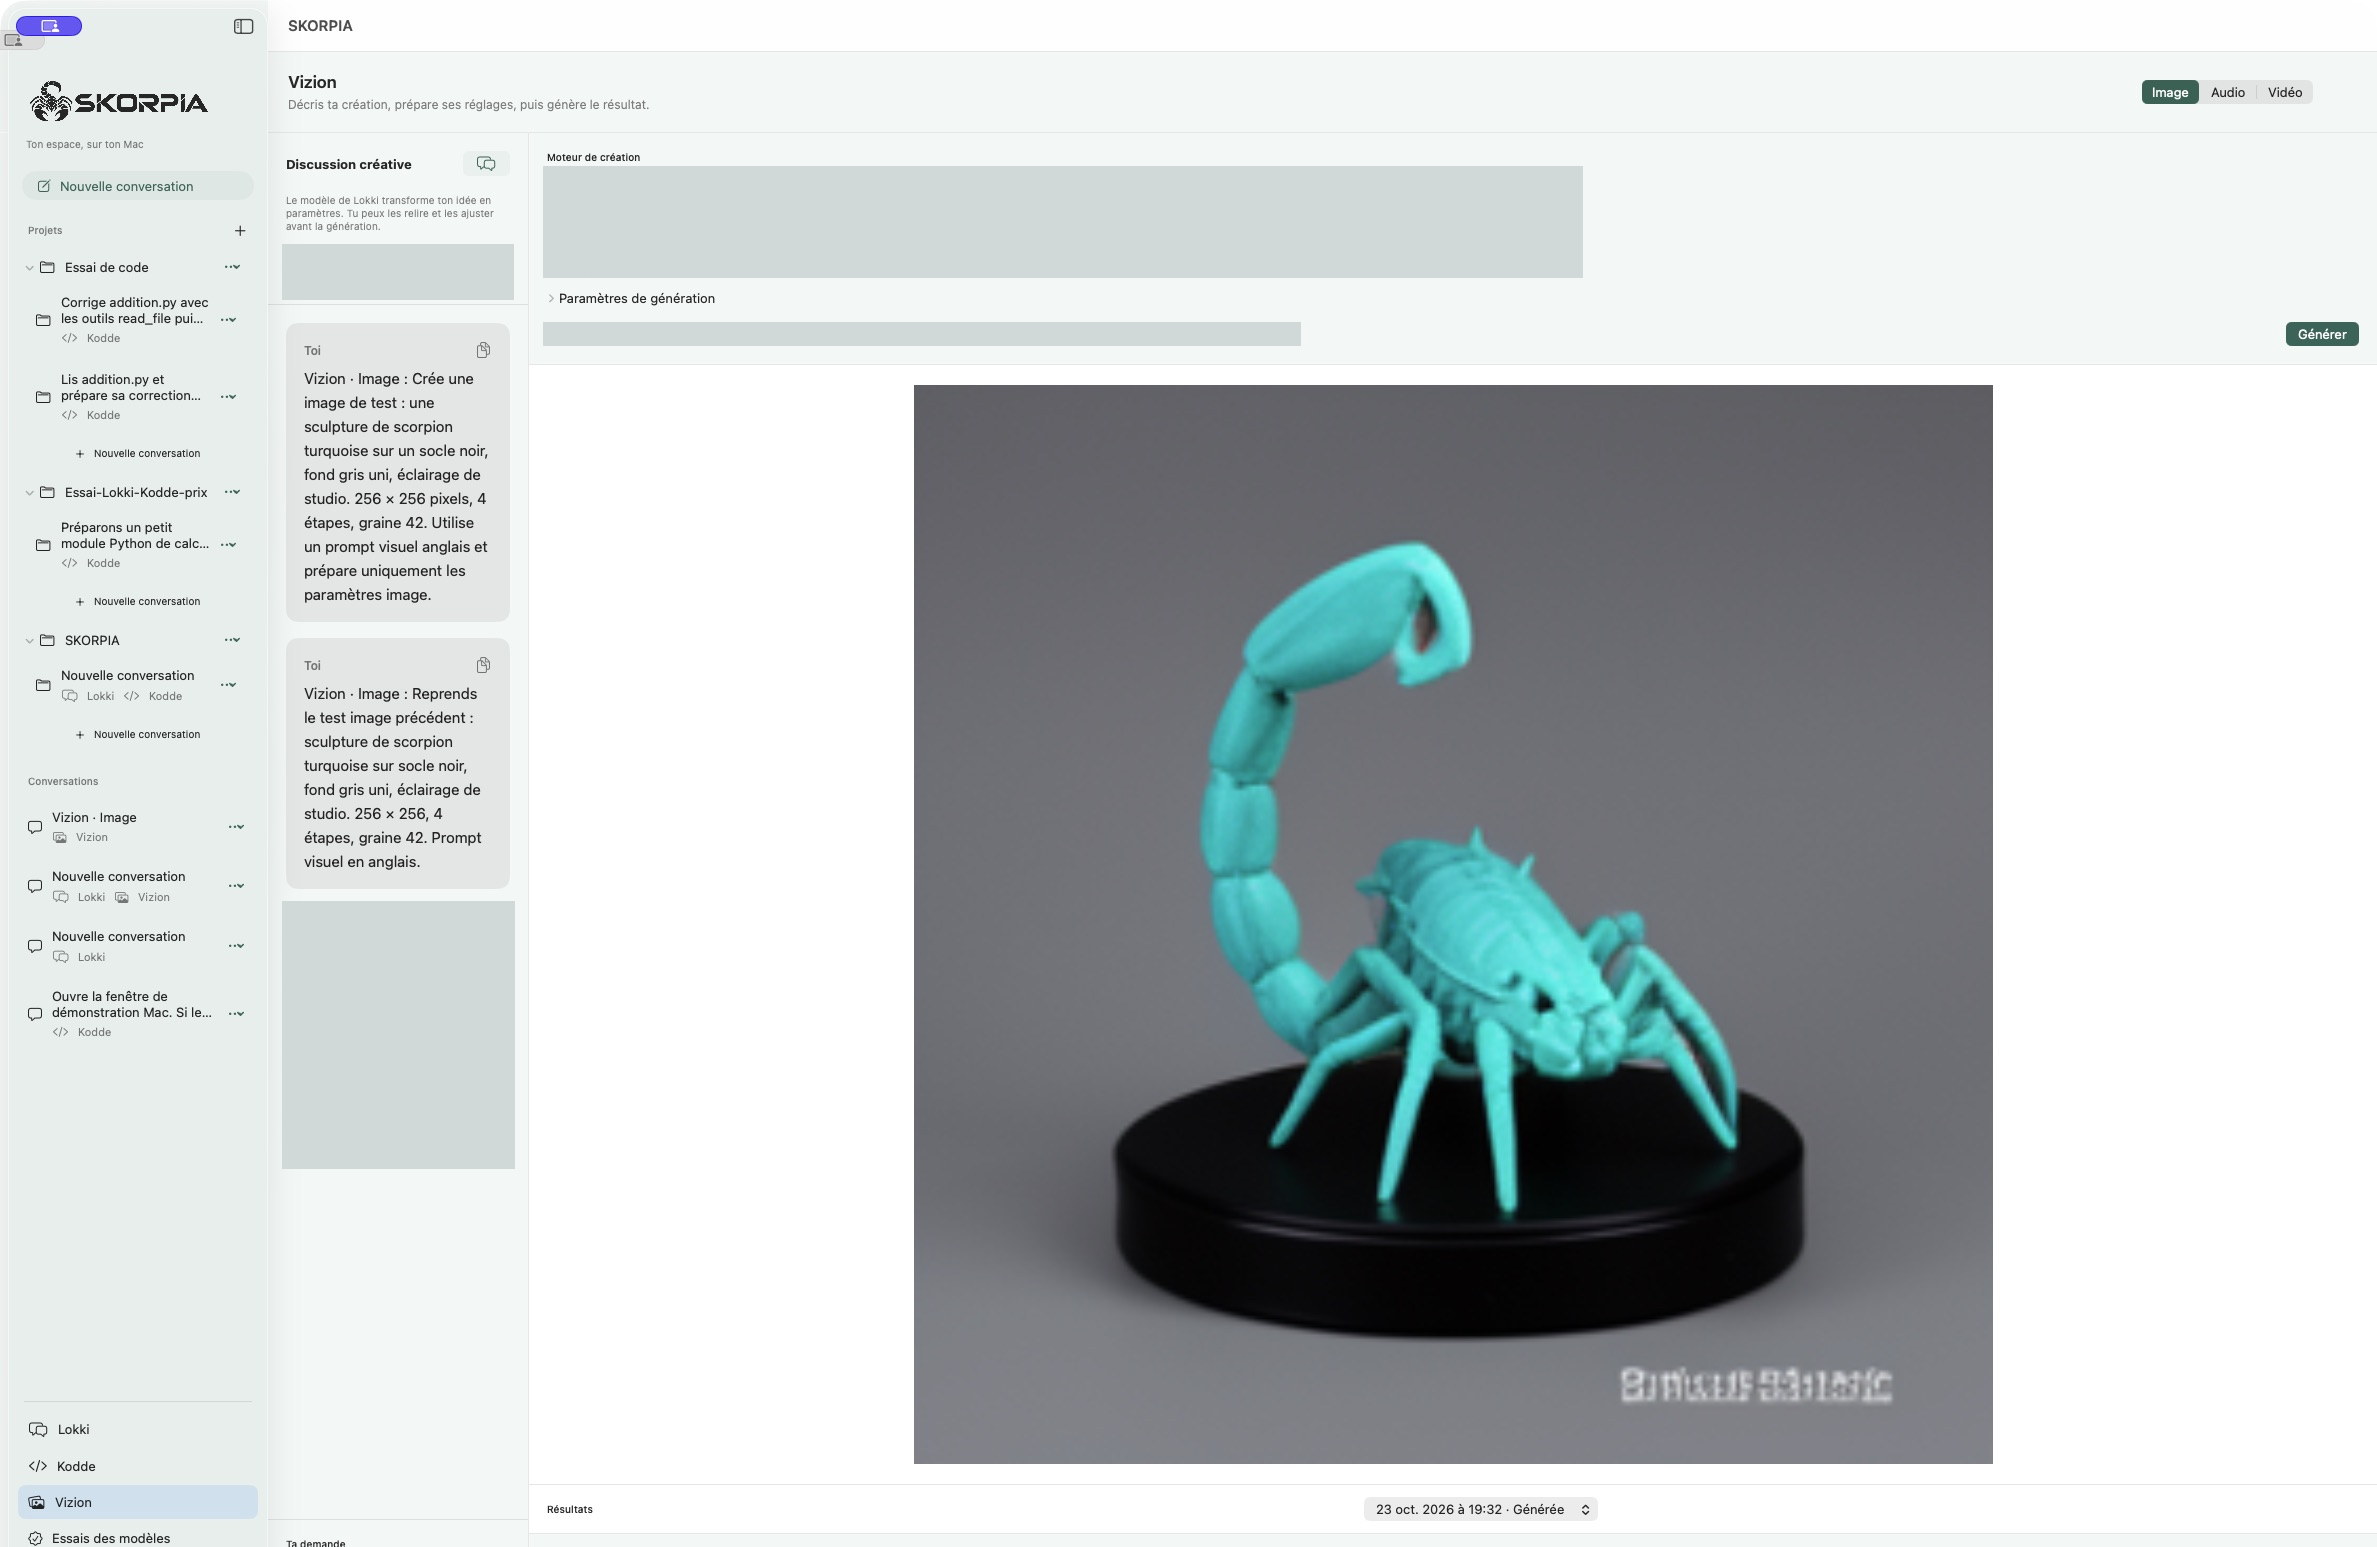
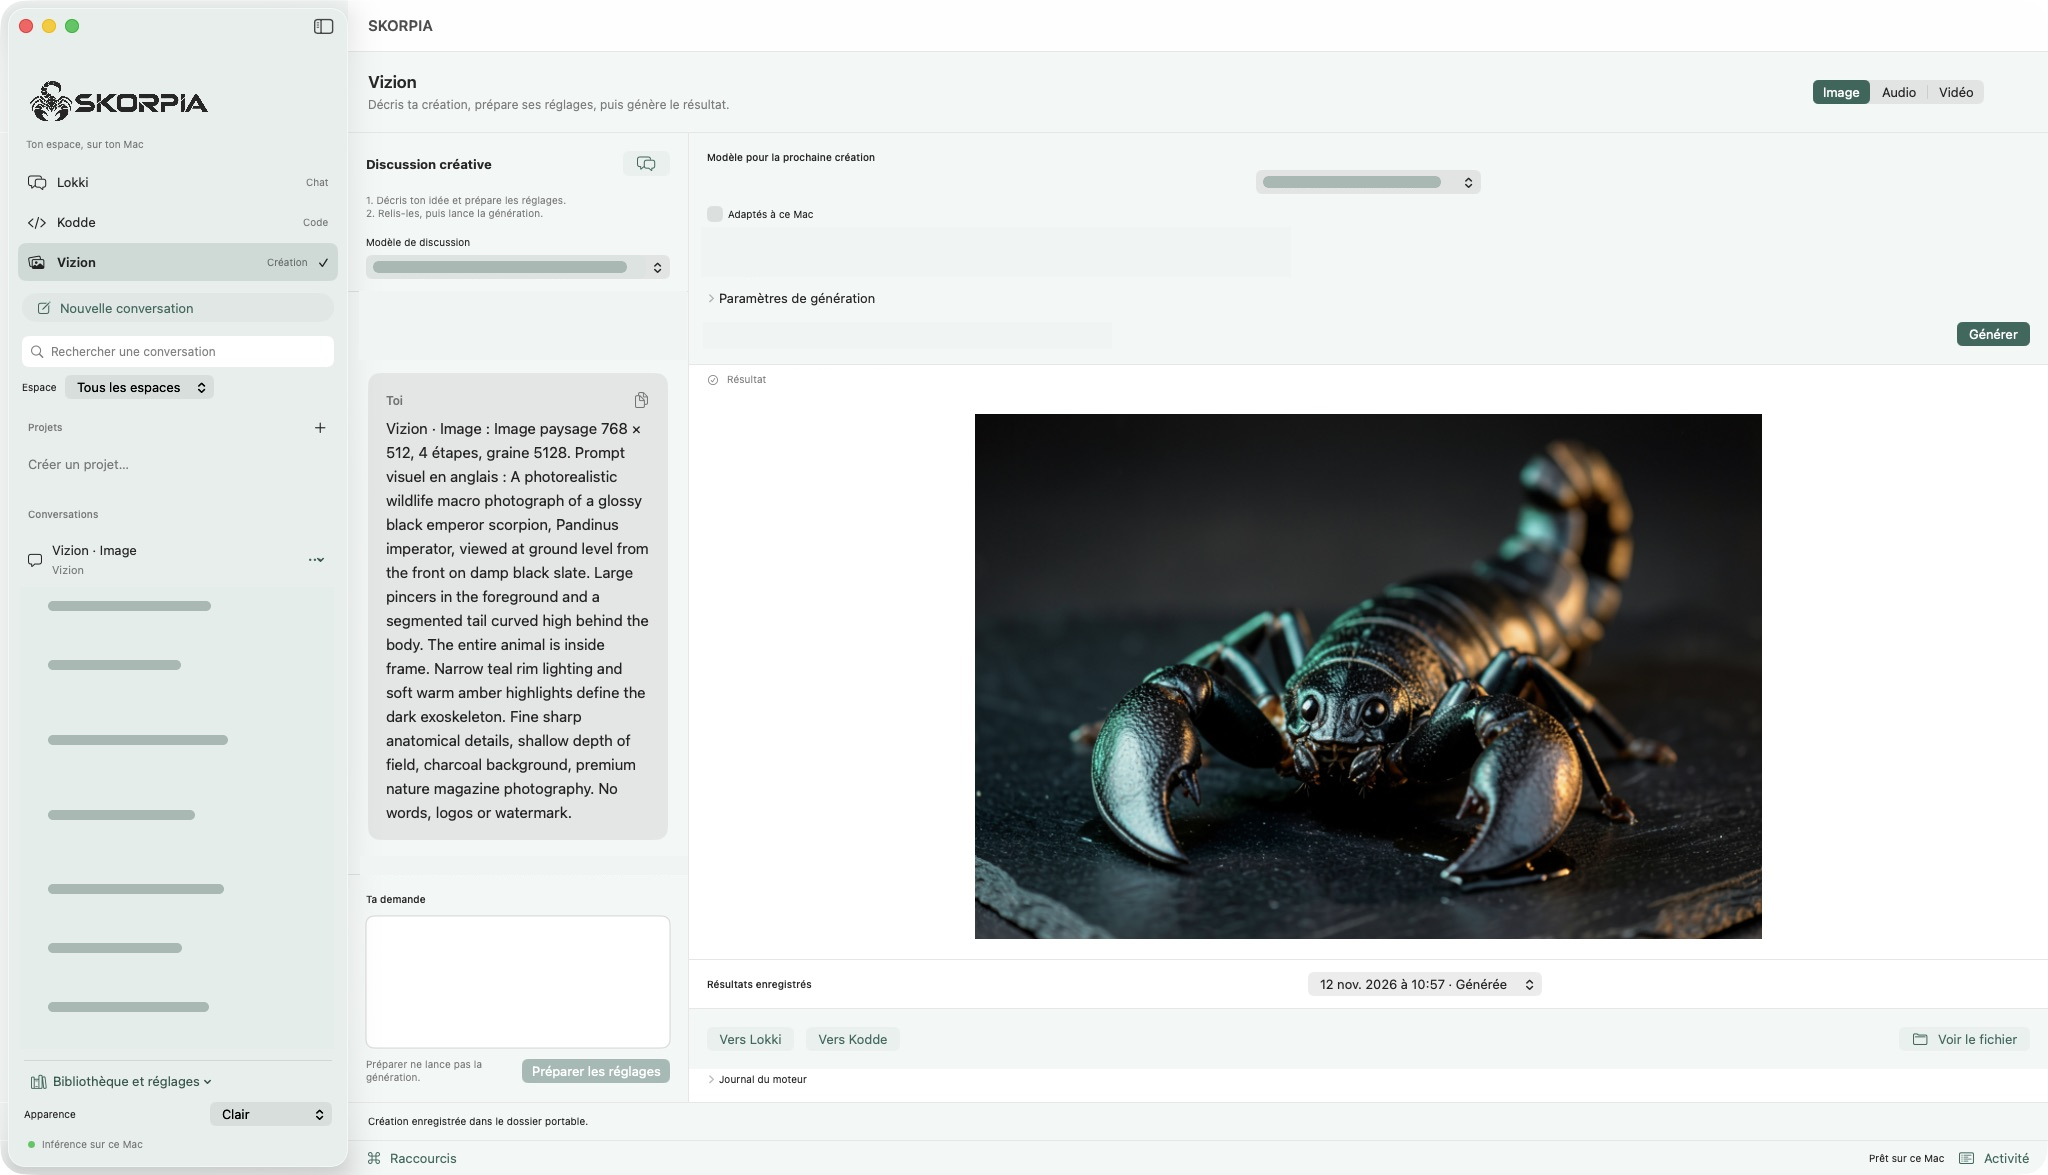
Présenter la future diffusion publique et renouveler la capture Vizion

diff --git a/README.md b/README.md
@@ -35,9 +35,9 @@ Les captures de développement ont été anonymisées. Les identifiants locaux e
 
 ![Lokki lit une page de la documentation Python et affiche la source consultée](lokki.png)
 
-### Vizion · Préparation d’une création
+### Vizion · Génération d’image
 
-![Vizion affiche les modes image, audio et vidéo ainsi que la discussion créative](vizion.png)
+![Vizion affiche la discussion créative et la photo macro générée](vizion.png)
 
 ## Prochaines évolutions
 
@@ -48,6 +48,6 @@ Les captures de développement ont été anonymisées. Les identifiants locaux e
 
 ## Statut du projet
 
-SKORPIA est un projet privé à code fermé, en développement. Ce dépôt sert de vitrine pour présenter le projet et ses captures d’écran. Le code source, l’application et les modèles restent privés.
+SKORPIA est pour le moment un projet privé à code fermé, en développement. Ce dépôt présente le projet et ses captures d’écran. L’objectif est de mettre l’application à disposition du grand public lorsqu’elle sera prête.
 
 © Fabien EphKa. Tous droits réservés sur SKORPIA.
